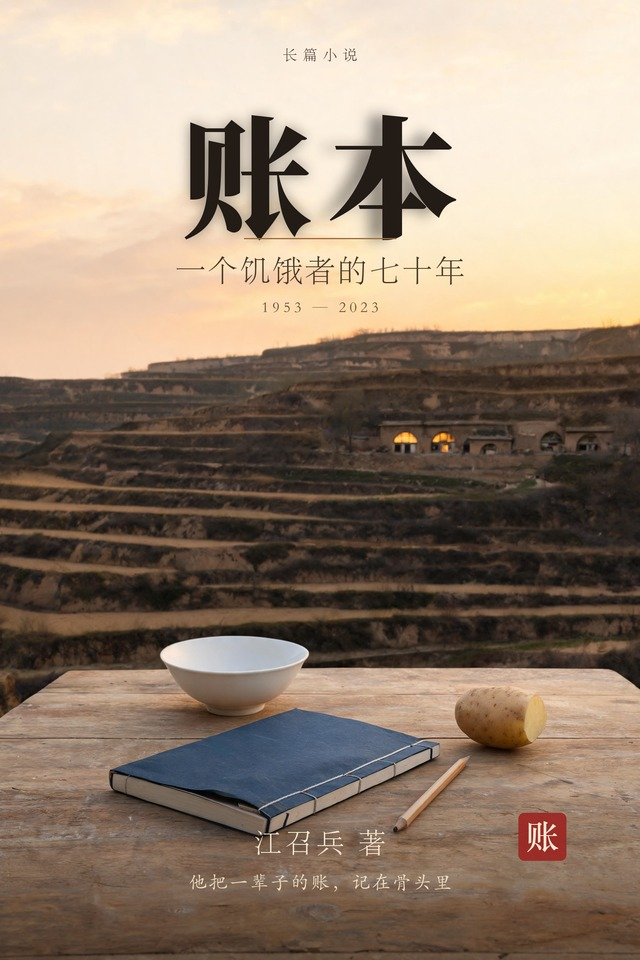
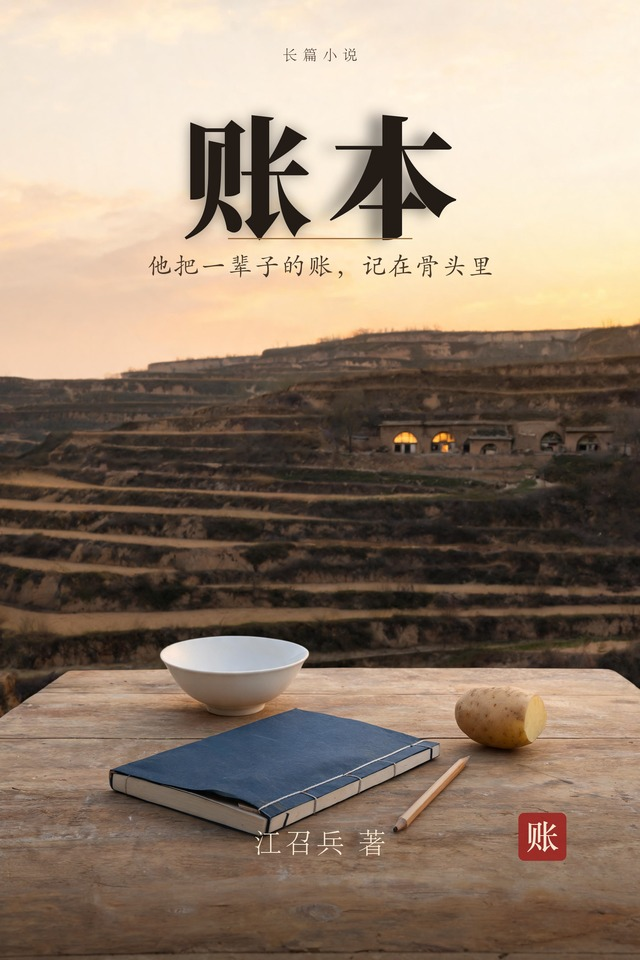
Zhangben: cover tagline replaces subtitle and years

diff --git a/books/zhangben/read.html b/books/zhangben/read.html
@@ -17,7 +17,7 @@
 <meta property="og:url" content="https://ZhaobingJiang.github.io/books/zhangben/read.html">
 <meta property="og:title" content="账本 · 全文在线阅读">
 <meta property="og:description" content="一个饥饿者的七十年。1953—2023，甘肃通渭。五卷四十六章，约三十一万字，全文在线阅读。">
-<meta property="og:image" content="https://ZhaobingJiang.github.io/books/zhangben/cover.jpg?v=2">
+<meta property="og:image" content="https://ZhaobingJiang.github.io/books/zhangben/cover.jpg?v=3">
 <meta name="twitter:card" content="summary_large_image">
 <link rel="stylesheet" href="../../assets/css/style.css">
 <style>
@@ -66,7 +66,7 @@
 
 <main class="reader">
   <div class="book-head">
-    <img class="web-cover" src="cover.jpg?v=2" alt="《账本》封面：江召兵著，长篇小说" width="1600" height="2400">
+    <img class="web-cover" src="cover.jpg?v=3" alt="《账本》封面：江召兵著，长篇小说" width="1600" height="2400">
     <h1 class="t">账　本</h1>
     <div class="s">一个饥饿者的七十年</div>
     <div class="a">江召兵　著</div>

diff --git a/books/zhangben/index.html b/books/zhangben/index.html
@@ -17,7 +17,7 @@
 <meta property="og:url" content="https://ZhaobingJiang.github.io/books/zhangben/">
 <meta property="og:title" content="账本 · 长篇小说">
 <meta property="og:description" content="一个饥饿者的七十年。1953—2023，甘肃通渭。五卷四十六章，全书完成。">
-<meta property="og:image" content="https://ZhaobingJiang.github.io/books/zhangben/cover.jpg?v=2">
+<meta property="og:image" content="https://ZhaobingJiang.github.io/books/zhangben/cover.jpg?v=3">
 <meta name="twitter:card" content="summary_large_image">
 <script type="application/ld+json">
 {"@context":"https://schema.org","@graph":[
@@ -67,7 +67,7 @@
 
 <main class="landing">
   <section class="book-hero">
-    <img class="cover" src="cover.jpg?v=2" alt="《账本》封面：江召兵著，长篇小说，一个饥饿者的七十年" width="1600" height="2400">
+    <img class="cover" src="cover.jpg?v=3" alt="《账本》封面：江召兵著，长篇小说" width="1600" height="2400">
     <div>
       <h1>账本</h1>
       <p class="sub">一个饥饿者的七十年</p>

diff --git a/books/index.html b/books/index.html
@@ -592,7 +592,7 @@
 
         <article class="book-card" id="book-15">
           <figure class="book-figure">
-            <img src="./zhangben/cover-card.jpg?v=2" alt="Cover of The Ledger (Zhangben)" width="640" height="960">
+            <img src="./zhangben/cover-card.jpg?v=3" alt="Cover of The Ledger (Zhangben)" width="640" height="960">
             <figcaption>Complete &middot; Five volumes, forty-six chapters</figcaption>
           </figure>
           <div class="book-body">

diff --git a/zh/books.html b/zh/books.html
@@ -592,7 +592,7 @@
 
         <article class="book-card" id="book-15">
           <figure class="book-figure">
-            <img src="../books/zhangben/cover-card.jpg?v=2" alt="《账本》封面" width="640" height="960">
+            <img src="../books/zhangben/cover-card.jpg?v=3" alt="《账本》封面" width="640" height="960">
             <figcaption>全书完成 · 五卷四十六章</figcaption>
           </figure>
           <div class="book-body">

diff --git a/scripts/compose_zhangben_cover_v2.py b/scripts/compose_zhangben_cover_v2.py
@@ -1,0 +1,137 @@
+# -*- coding: utf-8 -*-
+"""Compose the new cover of 《账本》: Dreamina dawn loess art + PIL typography.
+
+Input : D:\\tmp_bg\\zb_cover_v2\\083eb449-c941-4e17-bd36-f466b12eb159_image_1.png
+Output: books/zhangben/cover.jpg (1600x2400), cover-card.jpg (640x960),
+        cover_preview.png (800x1200)
+"""
+import os
+from PIL import Image, ImageDraw, ImageFont, ImageFilter
+
+HERE = os.path.dirname(os.path.abspath(__file__))
+ROOT = os.path.dirname(HERE)
+OUT = os.path.join(ROOT, "books", "zhangben")
+ART = r"D:\tmp_bg\zb_cover_v2\083eb449-c941-4e17-bd36-f466b12eb159_image_1.png"
+
+W, H = 1600, 2400
+SERIF_HEAVY = r"C:\Windows\Fonts\Source Han Serif SC Heavy (TrueType).ttf"
+SONG = r"C:\Windows\Fonts\STSONG.TTF"
+ZHONGSONG = r"C:\Windows\Fonts\STZHONGS.TTF"
+KAI = r"C:\Windows\Fonts\STKAITI.TTF"
+
+
+def font(path, size):
+    return ImageFont.truetype(path, size)
+
+
+def tracked(draw, xy, text, fnt, fill, tracking=0, center_x=None):
+    widths = [draw.textlength(ch, font=fnt) for ch in text]
+    total = sum(widths) + tracking * (len(text) - 1)
+    x, y = xy
+    if center_x is not None:
+        x = center_x - total / 2
+    for ch, w in zip(text, widths):
+        draw.text((x, y), ch, font=fnt, fill=fill)
+        x += w + tracking
+    return total
+
+
+def shadow(base, draw_fn, blur=12, alpha=150, color=(20, 14, 10, 255)):
+    layer = Image.new("RGBA", base.size, (0, 0, 0, 0))
+    d = ImageDraw.Draw(layer)
+    draw_fn(d)
+    layer = layer.filter(ImageFilter.GaussianBlur(blur))
+    r, g, b, a = layer.split()
+    a = a.point(lambda v: int(v * alpha / 255))
+    return Image.alpha_composite(base, Image.merge("RGBA", (r, g, b, a)))
+
+
+def main():
+    art = Image.open(ART).convert("RGB")
+    # crop 3:4 source to 2:3, keeping the full height and centring horizontally
+    tw = int(art.height * 2 / 3)
+    x0 = (art.width - tw) // 2
+    art = art.crop((x0, 0, x0 + tw, art.height)).resize((W, H), Image.LANCZOS)
+    base = art.convert("RGBA")
+
+    # gentle bottom gradient so the ivory author/tagline stay legible
+    grad = Image.new("L", (1, H), 0)
+    for y in range(H):
+        t = max(0.0, (y - H * 0.70) / (H * 0.30))
+        grad.putpixel((0, y), int(125 * (t ** 1.3)))
+    grad = grad.resize((W, H))
+    shade = Image.new("RGBA", (W, H), (18, 12, 8, 255))
+    base = Image.composite(shade, base, grad)
+
+    d = ImageDraw.Draw(base)
+
+    ink = (34, 27, 22, 255)
+    brown = (74, 55, 42, 255)
+    muted = (104, 80, 60, 255)
+    gold = (154, 113, 66, 255)
+    ivory = (247, 235, 214, 255)
+    warm = (238, 220, 192, 255)
+
+    # top label
+    f_label = font(SONG, 36)
+    tracked(d, (0, 112), "长篇小说", f_label, brown, tracking=14, center_x=W / 2)
+
+    # title
+    f_title = font(SERIF_HEAVY, 330)
+    title = "账本"
+    title_w = sum(d.textlength(ch, font=f_title) for ch in title) + 34 * (len(title) - 1)
+    tx = (W - title_w) / 2
+    ty = 190
+
+    def draw_title(dd):
+        dd.text((tx, ty), title, font=f_title, fill=(0, 0, 0, 255))
+
+    base = shadow(base, draw_title, blur=16, alpha=110)
+    d = ImageDraw.Draw(base)
+    tracked(d, (0, ty), title, f_title, ink, tracking=34, center_x=W / 2)
+
+    # thin gold rule
+    d.line([(W / 2 - 230, 596), (W / 2 + 230, 596)], fill=(150, 108, 62, 210), width=3)
+
+    # tagline in the subtitle position
+    f_tag = font(KAI, 64)
+    tag = "他把一辈子的账，记在骨头里"
+    tracked(d, (0, 620), tag, f_tag, brown, tracking=3, center_x=W / 2)
+
+    # author
+    f_author = font(SONG, 70)
+    author = "江召兵 著"
+    ax = W / 2
+    ay = 2058
+
+    def draw_author(dd):
+        dd.text((ax - 170, ay), author, font=f_author, fill=(0, 0, 0, 255))
+
+    base = shadow(base, draw_author, blur=10, alpha=180)
+    d = ImageDraw.Draw(base)
+    tracked(d, (0, ay), author, f_author, ivory, tracking=8, center_x=ax)
+
+    # small vermilion seal at the right of the author line
+    seal = Image.new("RGBA", (128, 128), (0, 0, 0, 0))
+    sd = ImageDraw.Draw(seal)
+    sd.rounded_rectangle([4, 4, 123, 123], radius=14, fill=(156, 38, 34, 235))
+    f_seal = font(ZHONGSONG, 84)
+    bb = sd.textbbox((0, 0), "账", font=f_seal)
+    sw, sh = bb[2] - bb[0], bb[3] - bb[1]
+    sd.text(((128 - sw) / 2 - bb[0], (128 - sh) / 2 - bb[1]), "账", font=f_seal, fill=(247, 236, 216, 245))
+    base.alpha_composite(seal, (1292, 2028))
+
+    cover = base.convert("RGB")
+    cover.save(os.path.join(OUT, "cover.jpg"), quality=93, optimize=True, progressive=True)
+
+    card = cover.resize((640, 960), Image.LANCZOS)
+    card.save(os.path.join(OUT, "cover-card.jpg"), quality=92, optimize=True, progressive=True)
+
+    preview = cover.resize((800, 1200), Image.LANCZOS)
+    preview.save(os.path.join(OUT, "cover_preview.png"), optimize=True)
+
+    print("saved", os.path.join(OUT, "cover.jpg"), cover.size)
+
+
+if __name__ == "__main__":
+    main()

diff --git a/scripts/build_zhangben_read.py b/scripts/build_zhangben_read.py
@@ -121,7 +121,7 @@ html_doc = f"""<!DOCTYPE html>
 <meta property="og:url" content="https://ZhaobingJiang.github.io/books/zhangben/read.html">
 <meta property="og:title" content="账本 · 全文在线阅读">
 <meta property="og:description" content="一个饥饿者的七十年。1953—2023，甘肃通渭。五卷四十六章，约三十一万字，全文在线阅读。">
-<meta property="og:image" content="https://ZhaobingJiang.github.io/books/zhangben/cover.jpg?v=2">
+<meta property="og:image" content="https://ZhaobingJiang.github.io/books/zhangben/cover.jpg?v=3">
 <meta name="twitter:card" content="summary_large_image">
 <link rel="stylesheet" href="../../assets/css/style.css">
 <style>
@@ -170,7 +170,7 @@ html_doc = f"""<!DOCTYPE html>
 
 <main class="reader">
   <div class="book-head">
-    <img class="web-cover" src="cover.jpg?v=2" alt="《账本》封面：江召兵著，长篇小说" width="1600" height="2400">
+    <img class="web-cover" src="cover.jpg?v=3" alt="《账本》封面：江召兵著，长篇小说" width="1600" height="2400">
     <h1 class="t">账　本</h1>
     <div class="s">一个饥饿者的七十年</div>
     <div class="a">江召兵　著</div>
